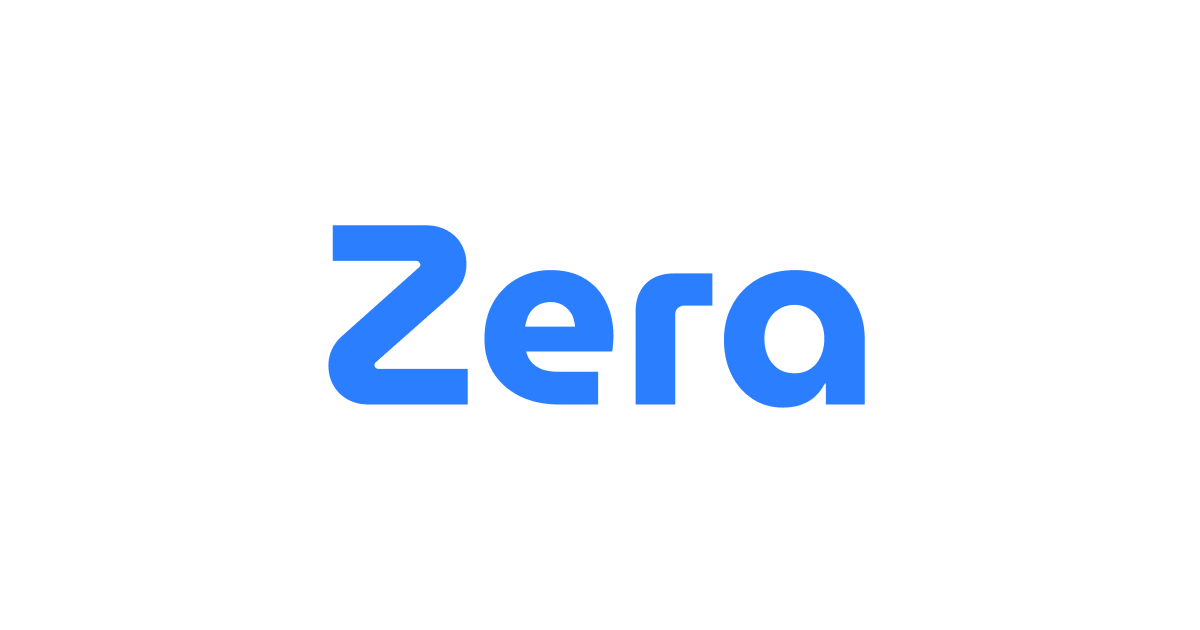
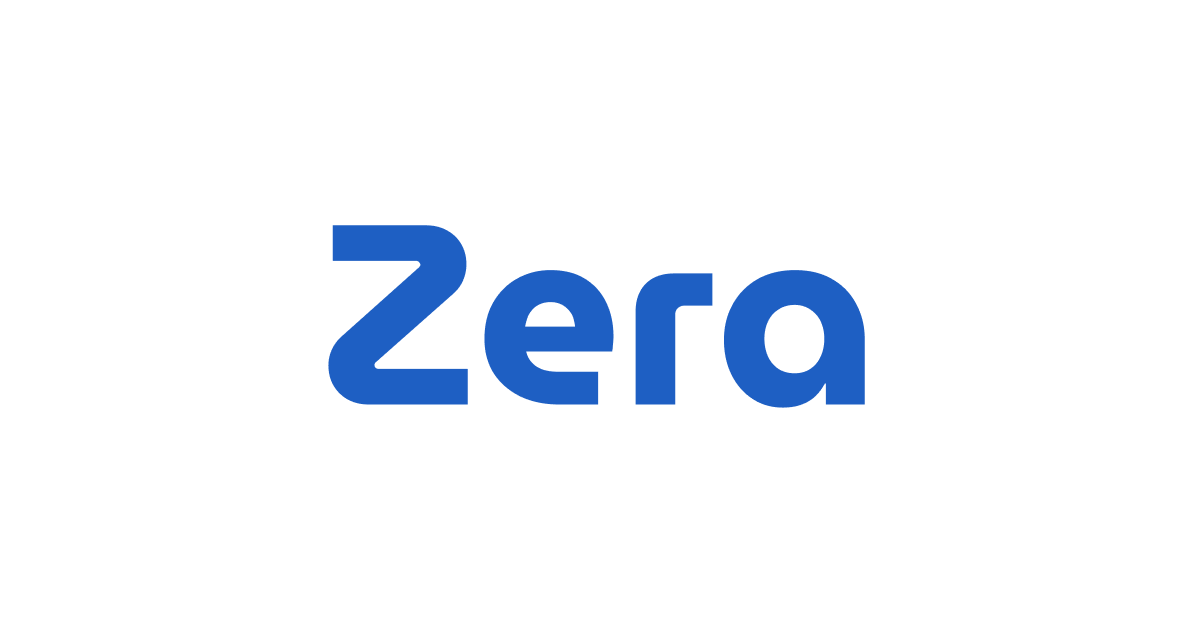
feat: update color variables in globals.css, enhance header component styling, and improve product thumbnail component with priority prop

Changed region(s): [[0.2467, 0.3317, 0.74, 0.6635]]

diff --git a/src/app/globals.css b/src/app/globals.css
@@ -55,7 +55,7 @@
   --card-foreground: oklch(0.141 0.005 285.823);
   --popover: oklch(1 0 0);
   --popover-foreground: oklch(0.141 0.005 285.823);
-  --primary: oklch(0.623 0.214 259.815);
+  --primary: oklch(0.5044 0.1697 259.36);
   --primary-foreground: oklch(0.97 0.014 254.604);
   --secondary: oklch(0.967 0.001 286.375);
   --secondary-foreground: oklch(0.21 0.006 285.885);
@@ -66,7 +66,7 @@
   --destructive: oklch(0.577 0.245 27.325);
   --border: oklch(0.92 0.004 286.32);
   --input: oklch(0.92 0.004 286.32);
-  --ring: oklch(0.623 0.214 259.815);
+  --ring: oklch(0.5044 0.1697 259.36);
   --chart-1: oklch(0.646 0.222 41.116);
   --chart-2: oklch(0.6 0.118 184.704);
   --chart-3: oklch(0.398 0.07 227.392);
@@ -74,12 +74,12 @@
   --chart-5: oklch(0.769 0.188 70.08);
   --sidebar: oklch(0.985 0 0);
   --sidebar-foreground: oklch(0.141 0.005 285.823);
-  --sidebar-primary: oklch(0.623 0.214 259.815);
+  --sidebar-primary: oklch(0.5044 0.1697 259.36);
   --sidebar-primary-foreground: oklch(0.97 0.014 254.604);
   --sidebar-accent: oklch(0.967 0.001 286.375);
   --sidebar-accent-foreground: oklch(0.21 0.006 285.885);
   --sidebar-border: oklch(0.92 0.004 286.32);
-  --sidebar-ring: oklch(0.623 0.214 259.815);
+  --sidebar-ring: oklch(0.5044 0.1697 259.36);
 }
 
 @layer base {

diff --git a/src/components/product-thumb.tsx b/src/components/product-thumb.tsx
@@ -5,7 +5,12 @@ import { cn, formatCurrency } from "@/lib/utils";
 import type { Product } from "../../sanity.types";
 import { ROUTES } from "@/constants/app-routes";
 
-export default function ProductThumb({ product }: { product: Product }) {
+interface ProductThumbProps {
+  product: Product;
+  priority?: boolean;
+}
+
+export default function ProductThumb({ product, priority }: ProductThumbProps) {
   // Check if the product is out of stock (stock defined and zero or less)
   const isOutOfStock = product.stock != null && product.stock <= 0;
 
@@ -27,6 +32,8 @@ export default function ProductThumb({ product }: { product: Product }) {
           src={urlFor(product.image!).url()}
           alt={product.name || "Unnamed product image"}
           fill
+          priority={priority}
+          quality={90}
           sizes="(max-width: 768px) 100vw, (max-width: 1200px) 50vw, 33vw"
         />
         {/* Show "Out of Stock" overlay if product is not available */}

diff --git a/src/components/product-grid.tsx b/src/components/product-grid.tsx
@@ -7,7 +7,7 @@ import type { Product } from "../../sanity.types";
 export default function ProductGrid({ products }: { products: Product[] }) {
   return (
     <div className="mt-4 grid grid-cols-1 gap-4 sm:grid-cols-2 md:grid-cols-3 lg:grid-cols-4">
-      {products.map((product) => (
+      {products.map((product, index) => (
         <AnimatePresence key={product._id}>
           <motion.div
             layout
@@ -16,7 +16,7 @@ export default function ProductGrid({ products }: { products: Product[] }) {
             exit={{ opacity: 0 }}
             className="flex justify-center"
           >
-            <ProductThumb product={product} />
+            <ProductThumb product={product} priority={index < 4} />
           </motion.div>
         </AnimatePresence>
       ))}

diff --git a/src/components/layout/header.tsx b/src/components/layout/header.tsx
@@ -30,7 +30,7 @@ export default function Header() {
           <Link
             href="/"
             aria-label="Go to homepage"
-            className="text-2xl font-bold text-blue-500 hover:opacity-80 focus:ring-2 focus:ring-blue-500 focus:outline-none sm:mr-4 sm:text-3xl"
+            className="text-primary text-2xl font-bold hover:opacity-80 focus:ring-2 focus:outline-none sm:mr-4 sm:text-3xl"
           >
             <span className="font-brand block text-center font-bold sm:text-left">
               Zera
